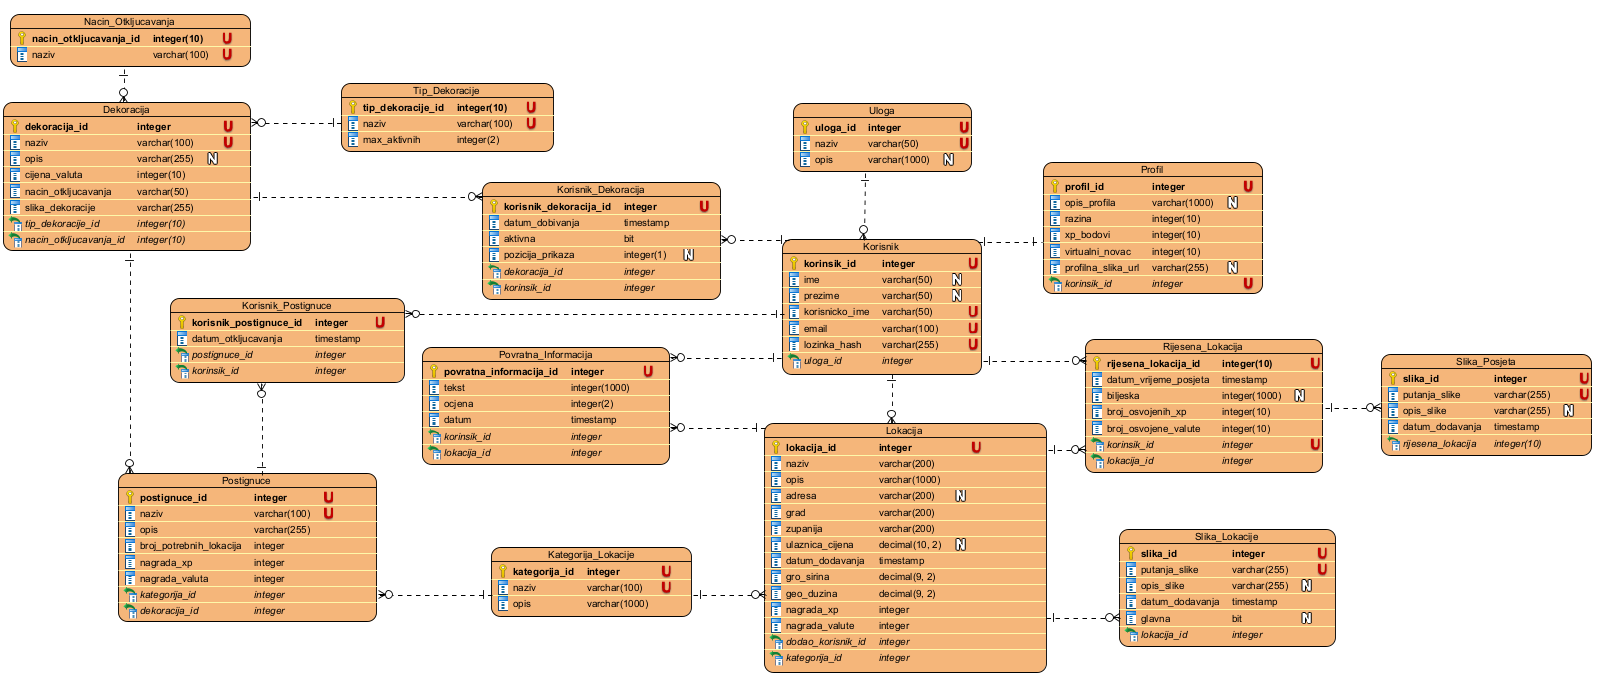
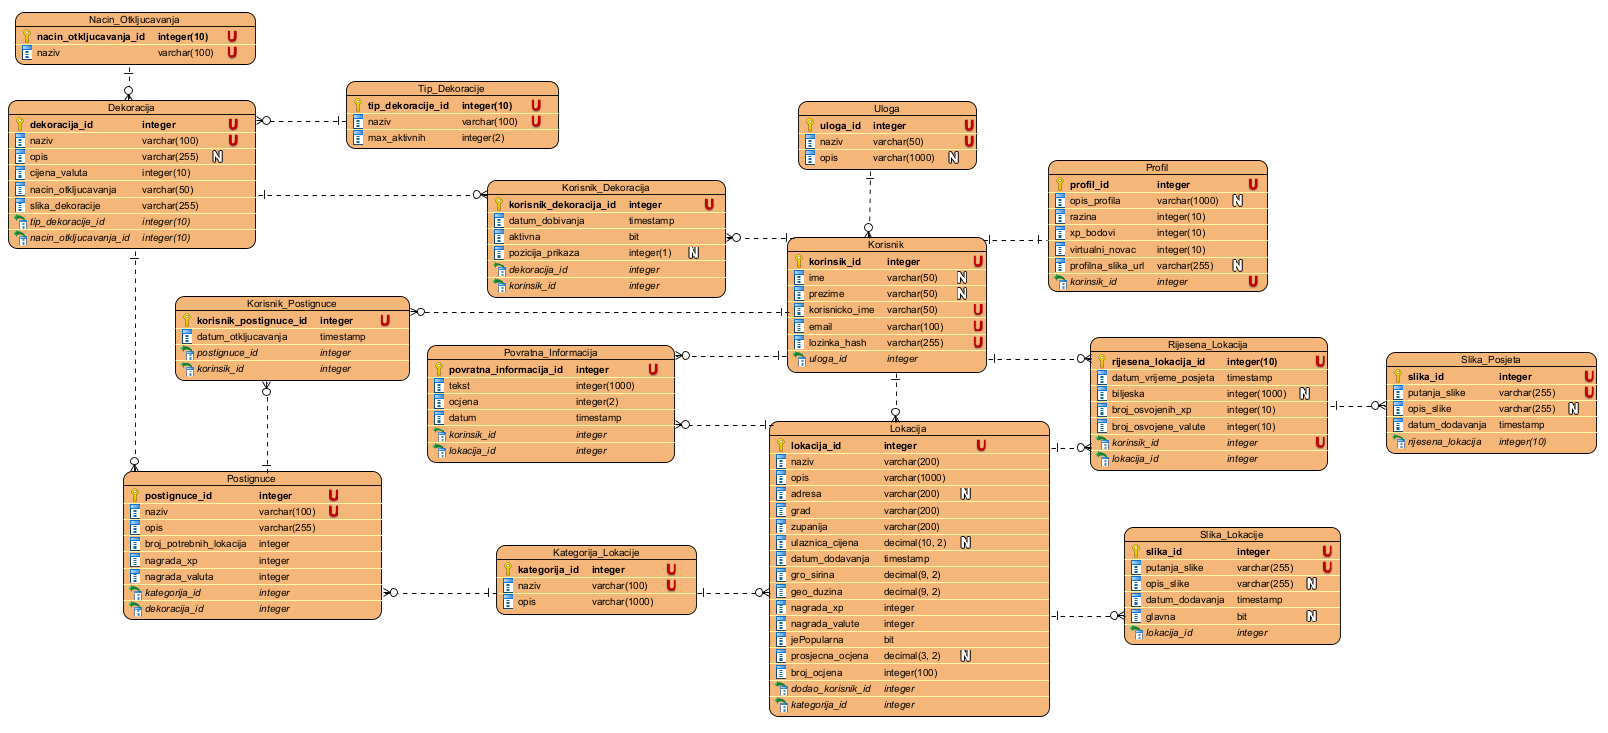
napravljena kalkualcija prosjecne ocjene za lokaciju temeljem povratnih informacija

diff --git a/backend/src/povratne-informacije/povratne-informacije.service.ts b/backend/src/povratne-informacije/povratne-informacije.service.ts
@@ -33,7 +33,7 @@ export class PovratneInformacijeService {
   ) {
     await this.provjeriPostojiLiLokacija(lokacijaId);
 
-    const rijesenaLokacija = this.prisma.rijesenaLokacija.findUnique({
+    const rijesenaLokacija = await this.prisma.rijesenaLokacija.findUnique({
       where: {
         korisnikId_lokacijaId: {
           korisnikId,
@@ -47,6 +47,12 @@ export class PovratneInformacijeService {
       );
     }
 
+    const brojPostojecihKomentara = await this.prisma.povratnaInformacija.count(
+      {
+        where: { korisnikId, lokacijaId },
+      },
+    );
+
     const povratnaInformacija = await this.prisma.povratnaInformacija.create({
       data: {
         tekst: dto.tekst,
@@ -56,7 +62,11 @@ export class PovratneInformacijeService {
       },
     });
 
-    await this.nagradeServis.dodijeliNagradu(korisnikId, 10, 50);
+    if (brojPostojecihKomentara === 0) {
+      await this.nagradeServis.dodijeliNagradu(korisnikId, 10, 50);
+    }
+
+    await this.izracunajNovuProsjecnuOcjenuIBrojGlasova(lokacijaId);
 
     return povratnaInformacija;
   }
@@ -76,10 +86,14 @@ export class PovratneInformacijeService {
       throw new NotFoundException('Povratna informacije ne postoji');
     }
 
-    return await this.prisma.povratnaInformacija.update({
-      where: { povratnaInformacijaId, korisnikId },
+    const azurirana = await this.prisma.povratnaInformacija.update({
+      where: { povratnaInformacijaId },
       data: dto,
     });
+
+    await this.izracunajNovuProsjecnuOcjenuIBrojGlasova(lokacijaId);
+
+    return azurirana;
   }
 
   async obrisiPovratnuInformaciju(
@@ -96,9 +110,13 @@ export class PovratneInformacijeService {
       throw new NotFoundException('Povratna informacije ne postoji');
     }
 
-    return await this.prisma.povratnaInformacija.delete({
-      where: { povratnaInformacijaId, korisnikId },
+    const obrisna = await this.prisma.povratnaInformacija.delete({
+      where: { povratnaInformacijaId },
     });
+
+    await this.izracunajNovuProsjecnuOcjenuIBrojGlasova(lokacijaId);
+
+    return obrisna;
   }
 
   async provjeriPostojiLiLokacija(id: number) {
@@ -110,5 +128,25 @@ export class PovratneInformacijeService {
     }
 
     return lokacija;
+  }
+
+  async izracunajNovuProsjecnuOcjenuIBrojGlasova(lokacijaId: number) {
+    const zbroj = await this.prisma.povratnaInformacija.aggregate({
+      where: { lokacijaId },
+      _avg: {
+        ocjena: true,
+      },
+      _count: {
+        ocjena: true,
+      },
+    });
+
+    return this.prisma.lokacija.update({
+      where: { lokacijaId },
+      data: {
+        prosjecnaOcjena: zbroj._avg.ocjena ?? 0,
+        brojOcjena: zbroj._count.ocjena,
+      },
+    });
   }
 }
